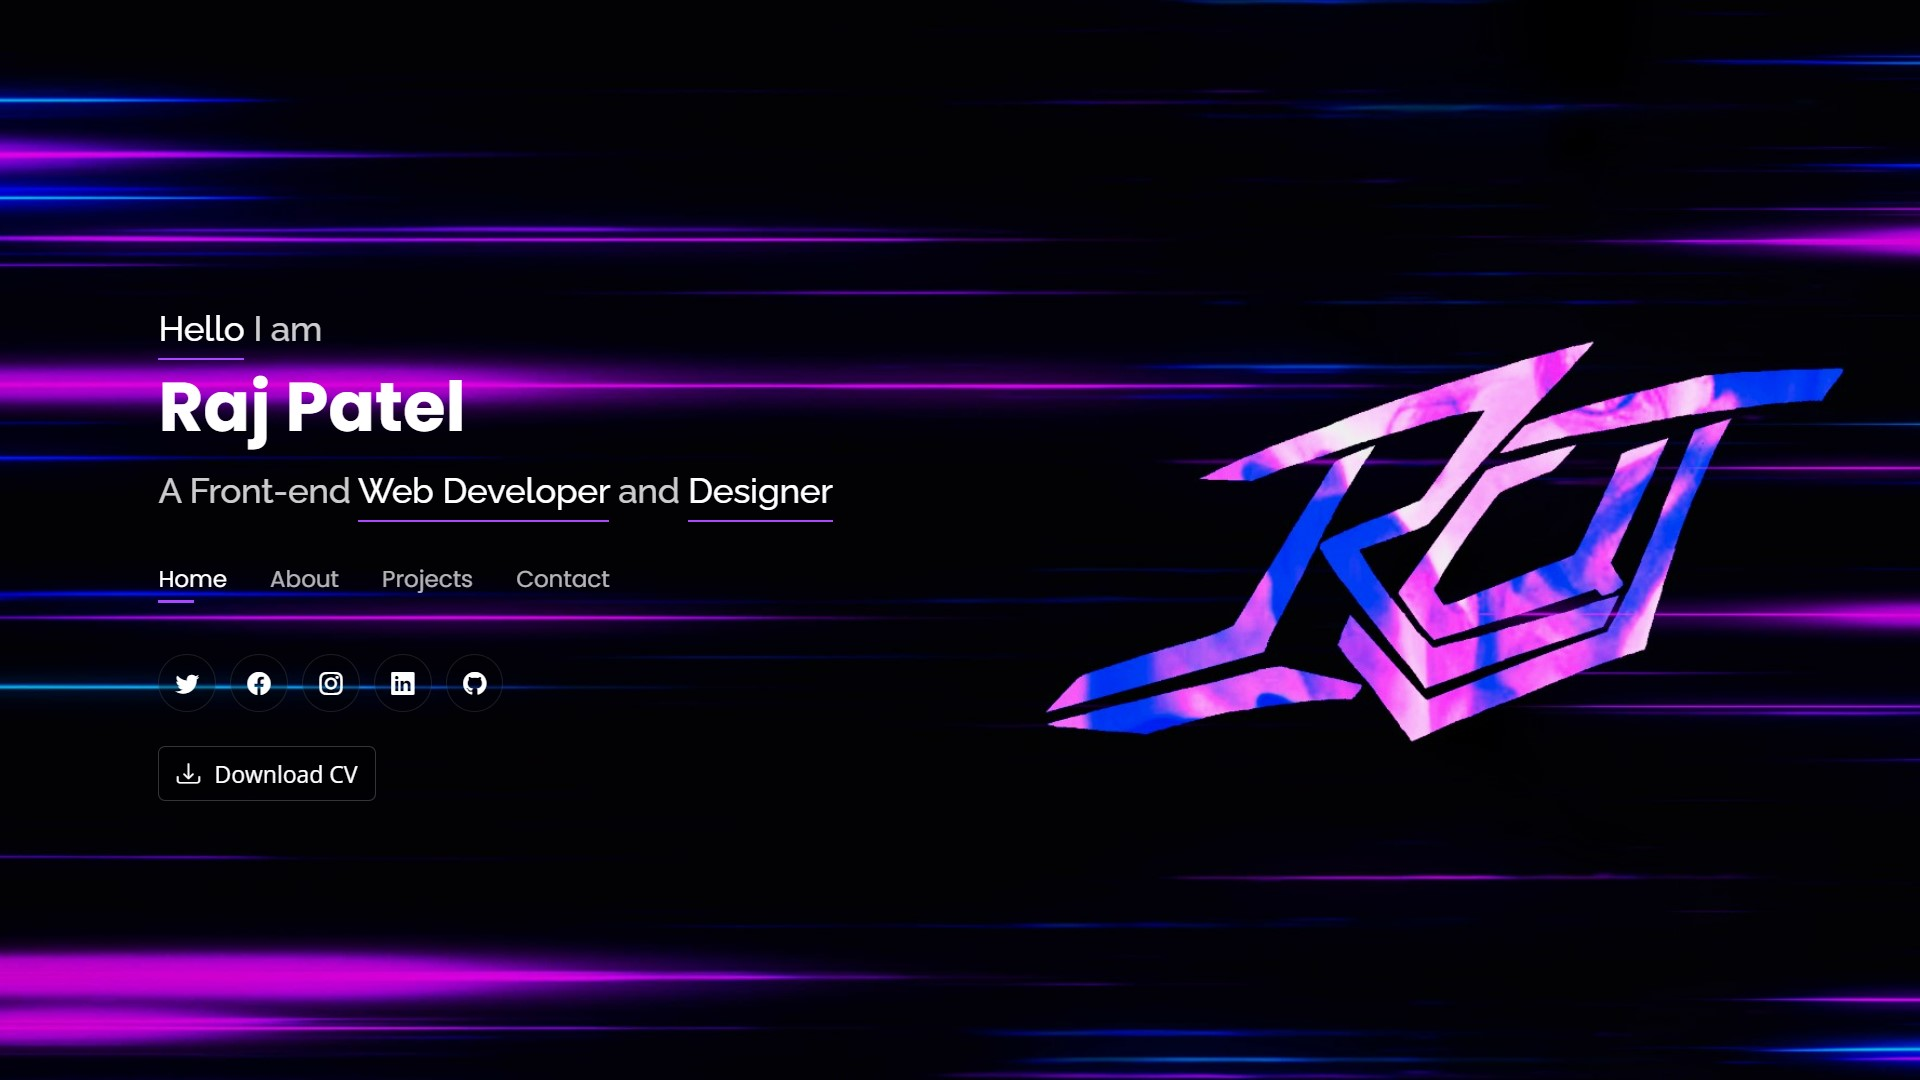
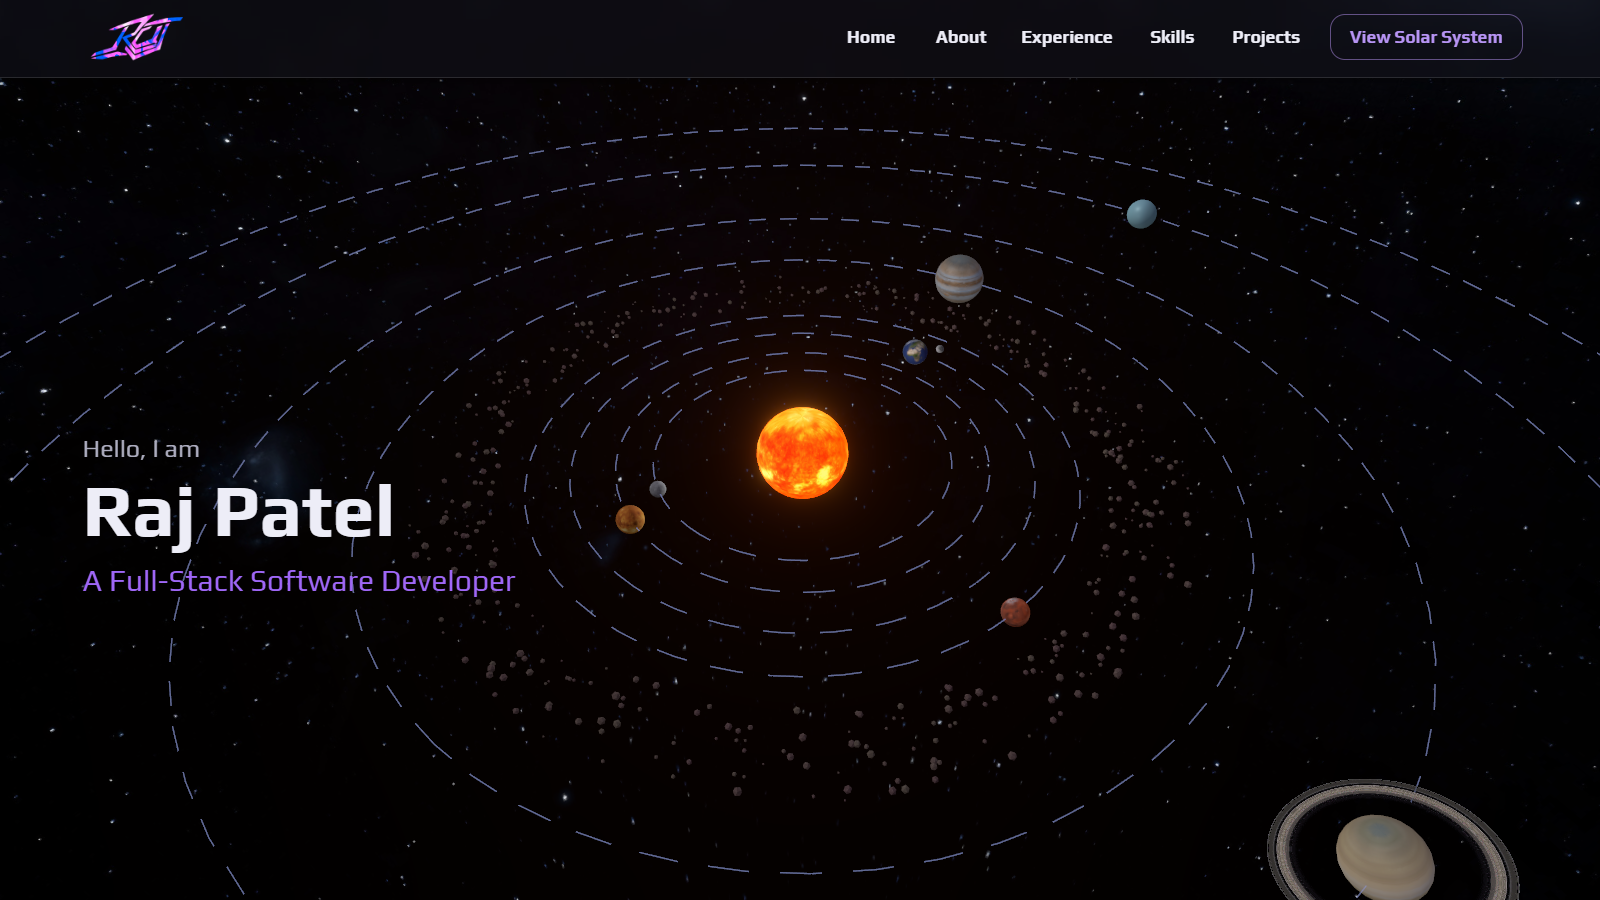
Improved Styling and Design little bit

diff --git a/src/components/ProjectModal.jsx b/src/components/ProjectModal.jsx
@@ -14,11 +14,11 @@ const LazyImage = memo(({ src, alt }) => (
   <Box sx={{ 
     position: 'relative', 
     width: '100%', 
-    height: '100%',
-    minHeight: 260,
+    aspectRatio: '16 / 9',
     background: 'linear-gradient(135deg,#2a2345,#14121f)',
-    borderRadius: 2,
-    overflow: 'hidden'
+    borderRadius: 1,
+    overflow: 'hidden',
+    marginTop: 1
   }}>
     <img
       src={src}
@@ -30,8 +30,10 @@ const LazyImage = memo(({ src, alt }) => (
         left: 0,
         width: '100%',
         height: '100%',
-        objectFit: 'cover',
+        objectFit: 'contain',
+        background: 'rgba(0,0,0,0.2)',
         transition: 'opacity 0.3s ease-in-out',
+        opacity: 0,
       }}
       onLoad={(e) => {
         e.target.style.opacity = 1;
@@ -49,12 +51,24 @@ const StyledDialog = styled(Dialog)({
     backdropFilter: 'blur(6px)',
     backgroundColor: 'rgba(2,2,6,0.6)',
     '& .MuiPaper-root': {
-      background: 'rgba(10,10,16,0.96)',
-      backdropFilter: 'blur(6px)',
+      background: 'radial-gradient(1200px 600px at 10% -10%, rgba(85,70,180,0.15), transparent), rgba(10,10,16,0.96)',
+      backdropFilter: 'blur(8px)',
+      borderRadius: 15,
+      border: '1px solid rgba(120,120,255,0.2)',
+      boxShadow: '0 10px 40px rgba(0,0,0,0.6), inset 0 0 0 1px rgba(255,255,255,0.03)',
       animation: 'fadeIn 0.2s ease-out forwards',
       '&.MuiDialog-paper': {
-        margin: 16,
-        maxHeight: 'calc(100% - 32px)',
+        margin: 12,
+        width: 'min(94vw, 760px)',
+        maxHeight: 'calc(100% - 24px)',
+      },
+      // Force near-full width on small screens
+      '@media (max-width:600px)': {
+        '&.MuiDialog-paper': {
+          margin: 8,
+          width: 'calc(100vw - 16px)',
+          maxWidth: 'unset',
+        },
       },
     },
   },
@@ -112,14 +126,14 @@ const ProjectModal = memo(({ open, onClose, projectKey, project }) => {
       ref={dialogRef}
       open={open}
       onClose={handleClose}
-      maxWidth="md"
+      maxWidth={false}
       fullWidth
       transitionDuration={200}
       disableScrollLock={false}
       className="modal-content"
     >
       <DialogTitle sx={{ pr: 6, pb: 1 }}>
-        <Typography variant="h6" sx={{ fontWeight: 700 }}>{project.title}</Typography>
+        <Typography variant="h6" sx={{ fontWeight: 800, letterSpacing: 0.3 }}>{project.title}</Typography>
         <IconButton 
           onClick={(e) => {
             isClosing.current = true;
@@ -137,35 +151,51 @@ const ProjectModal = memo(({ open, onClose, projectKey, project }) => {
           <CloseIcon />
         </IconButton>
       </DialogTitle>
-      <DialogContent>
+      <DialogContent sx={{ pt: 0.5 }}>
         <Box sx={{ 
           display: 'flex', 
           flexDirection: { xs: 'column', md: 'row' }, 
-          gap: 3,
-          pt: 1,
+          gap: 2.5,
+          pt: 0.5,
           '& > *': {
             minWidth: 0, // Prevent flex items from overflowing
           }
         }}>
-          <Box sx={{ flex: 1, minWidth: 0 }}>
+          <Box sx={{ flex: 2, minWidth: 0, flexShrink: 0 }}>
             <LazyImage src={imgSrc} alt={project.title} />
-          </Box>
-          <Box sx={{ flex: 1, minWidth: 0 }}>
-            <Typography variant="overline" color="text.secondary">
-              {project.category} • {project.date}
-            </Typography>
-            <Typography variant="body1" sx={{ mt: 1.5, lineHeight: 1.6, textAlign: 'justify' }}>
-              {project.description}
-            </Typography>
             <Button 
               href={project.url} 
               target="_blank" 
               rel="noopener noreferrer" 
               variant="contained" 
-              sx={{ mt: 2.5 }}
+              color="primary"
+              sx={{ mt: 2.5, fontWeight: 700, boxShadow: '0 8px 20px rgba(106,90,205,0.35)' }}
             >
               Visit Project
             </Button>
+          </Box>
+          <Box sx={{ flex: 2, minWidth: 0 }}>
+            <Typography variant="overline" color="primary.light" sx={{ fontWeight: 700, letterSpacing: 1 }}>
+              Category
+            </Typography>
+            <Typography variant="body2" color="text.primary" sx={{ mb: 1 }}>
+              {project.category}
+            </Typography>
+
+            <Typography variant="overline" color="primary.light" sx={{ fontWeight: 700, letterSpacing: 1 }}>
+              Date
+            </Typography>
+            <Typography variant="body2" color="text.primary" sx={{ mb: 1 }}>
+              {project.date}
+            </Typography>
+
+            <Typography variant="overline" color="primary.light" sx={{ fontWeight: 700, letterSpacing: 1 }}>
+              Description
+            </Typography>
+            <Typography variant="body2" color="text.primary" sx={{ mb: 1, lineHeight: 1.8, whiteSpace: 'pre-line', textAlign: 'justify' }}>
+              {project.description}
+            </Typography>
+
           </Box>
         </Box>
       </DialogContent>

diff --git a/src/data/projects.js b/src/data/projects.js
@@ -55,26 +55,26 @@ export const PROJECTS_DATA = {
     display: true,
   },
   'my-site': {
-    title: 'My Site',
-    category: 'Portfolio Site, Bootstrap, Design',
-    date: 'Oct 2022',
-    url: 'https://github.com/RAJ4823/MySite',
-    shortDescription: 'My Portfolio Website',
+    title: 'My Site v2.0',
+    category: 'Portfolio Site, React, Three.js',
+    date: 'Oct 2025',
+    url: 'https://github.com/RAJ4823/MySite2.0',
+    shortDescription: 'React Based Portfolio Site',
     description:
-      'You can see how good it is, but for details it is a bootstrap based portfolio website of mine. It consists a great UI and design. It is a fully responsive website. Current version is 2.0\n\nThis is an easter egg and you found it. 🥳',
-    filter: ['bootstrap', 'superverse'],
+      'Version 2.0 of my portfolio — a modern one‑page site built with React and Three.js. It features an immersive solar system background. The focus is on performance, smooth scrolling, responsive layout, and a clean dark theme.',
+    filter: ['react', 'superverse'],
     display: true,
   },
-  'super-calculator': {
-    title: 'SuperCalculator',
-    category: 'Website, Design',
-    date: 'Jan 2022',
-    url: 'https://raj4823.github.io/SuperCalculator/',
-    shortDescription: 'A calculator with fantastic design',
+  'my-site-old': {
+    title: 'My Site v1.0',
+    category: 'Portfolio Site, Bootstrap, Design',
+    date: 'Oct 2022 – Oct 2025',
+    url: 'https://github.com/RAJ4823/MySite',
+    shortDescription: 'Bootstrap Based Portfolio Site',
     description:
-      'Simple calculator made with HTML, CSS & JS. It has color-changing background which looks awsome.',
+      'Version 1.0 of my portfolio, built purely with Bootstrap, HTML and CSS. It delivered a solid, fast, fully responsive single‑page experience and remained publicly live for about two years before being replaced by v2.0 in Oct 2025.',
     filter: ['bootstrap', 'superverse'],
-    display: false,
+    display: true,
   },
   nmhp: {
     title: 'NMHP',

diff --git a/src/components/Navbar.jsx b/src/components/Navbar.jsx
@@ -82,7 +82,7 @@ export default function Navbar({ overlay = false, onBack, onOpenSolar }) {
                 </Button>
               ))}
               {onOpenSolar && (
-                <Button variant="contained" color="secondary" onClick={onOpenSolar} sx={{ fontWeight: 700, ml: 1 }}>
+                <Button variant="outlined" color="secondary" onClick={onOpenSolar} sx={{ fontWeight: 700, ml: 1 }}>
                   View Solar System
                 </Button>
               )}
@@ -118,7 +118,7 @@ export default function Navbar({ overlay = false, onBack, onOpenSolar }) {
                 {onOpenSolar && (
                   <Box sx={{ px: 1.5, py: 1 }}>
                     <Button
-                      variant="contained"
+                      variant="outlined"
                       color="secondary"
                       onClick={() => { setAnchorEl(null); onOpenSolar?.(); }}
                       fullWidth
@@ -134,8 +134,8 @@ export default function Navbar({ overlay = false, onBack, onOpenSolar }) {
 
           {/* Overlay back button (always right) */}
           {overlay && (
-            <Button variant="contained" color="secondary" onClick={onBack} sx={{ fontWeight: 700 }}>
-              Back to main page
+            <Button variant="outlined" color="secondary" onClick={onBack} sx={{ fontWeight: 700 }}>
+              Back to MySite
             </Button>
           )}
         </Toolbar>

diff --git a/src/sections/SkillsSection.jsx b/src/sections/SkillsSection.jsx
@@ -8,7 +8,7 @@ import ColorChip from '../components/ColorChip';
 const SkillsSection = () => {
   return (
     <>
-      <Typography variant="h4" sx={{ fontWeight: 800, mb: 4 }}>Skills</Typography>
+      <Typography variant="h4" sx={{ fontWeight: 800, mb: 2 }}>Skills</Typography>
       
       <Box sx={{ mt: 2 }}>
         <Typography variant="overline" color="text.primary" sx={{ display: 'block', mb: 0.5, fontSize: '1.2rem', fontWeight: 600 }}>Soft Skills</Typography>

diff --git a/src/sections/ProjectsSection.jsx b/src/sections/ProjectsSection.jsx
@@ -4,7 +4,7 @@ import ProjectCard from '../components/ProjectCard';
 
 const ProjectsSection = ({ onProjectOpen }) => {
   const entries = Object.entries(PROJECTS_DATA);
-  const projects = entries.slice(0, 6);
+  const projects = entries;
 
   return (
     <>
